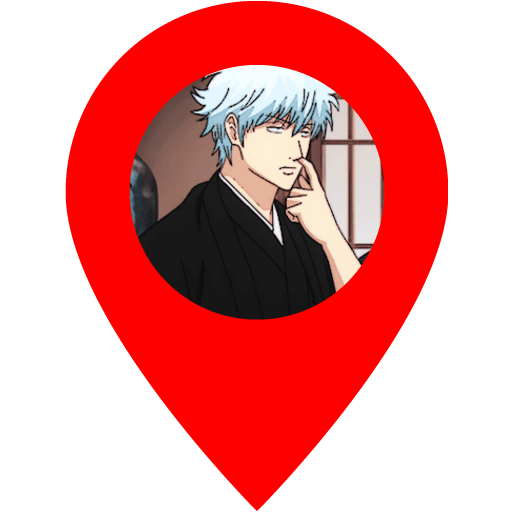
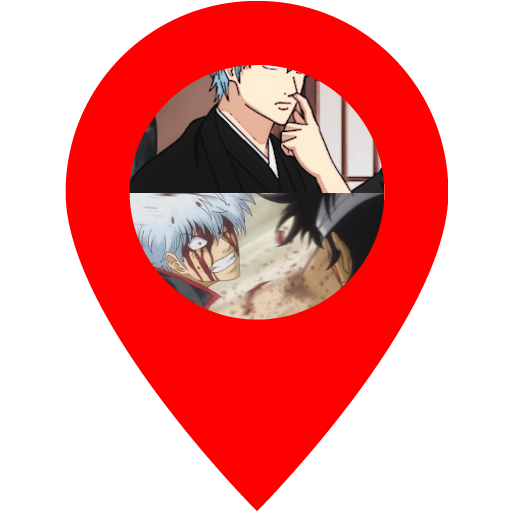
carregamento do conteudo de cada camada é feito em paralelo agora; modificando exemplo para um de 3 camadas

Changed region(s): [[0.25, 0.125, 0.75, 0.625]]

diff --git a/src/main/java/io/github/kieckegard/samples/marker/service/Demonstration.java b/src/main/java/io/github/kieckegard/samples/marker/service/Demonstration.java
@@ -43,7 +43,74 @@ public class Demonstration {
 
     public static void main(String[] args) throws IOException {
 
-        final String json = "{ \"contentName\": \"marker.png\", \"layers\": [ { \"content\": \"https://www.iconsdb.com/icons/download/red/map-marker-2-512.png\" }, { \"behind\": true, \"content\": \"https://66.media.tumblr.com/6b10d3c75c34af5d8ea5bb29623430c6/tumblr_ouk6jozjaH1tiivhqo1_250.gif\", \"filters\": [ { \"type\": \"resize\", \"resizeMode\": \"cover\", \"cover\": { \"boundingBox\": { \"width\": 263, \"height\": 263 } } }, { \"type\": \"crop\", \"cropMode\": \"centered\", \"crop\": { \"toBeCropped\": { \"width\": 263, \"height\": 263 } } } ], \"position\": { \"distanceToTheTop\": 61, \"distanceToTheLeft\": 129 } } ] }";
+        final String json = "{\n" +
+"  \"contentName\": \"marker.png\",\n" +
+"  \"layers\": [\n" +
+"    {\n" +
+"      \"content\": \"https://www.iconsdb.com/icons/download/red/map-marker-2-512.png\"\n" +
+"    },\n" +
+"    {\n" +
+"      \"behind\": true,\n" +
+"      \"content\": \"https://66.media.tumblr.com/6b10d3c75c34af5d8ea5bb29623430c6/tumblr_ouk6jozjaH1tiivhqo1_250.gif\",\n" +
+"      \"filters\": [\n" +
+"        {\n" +
+"          \"type\": \"resize\",\n" +
+"          \"resizeMode\": \"cover\",\n" +
+"          \"cover\": {\n" +
+"            \"boundingBox\": {\n" +
+"              \"width\": 255,\n" +
+"              \"height\": 132\n" +
+"            }\n" +
+"          }\n" +
+"        },\n" +
+"        {\n" +
+"          \"type\": \"crop\",\n" +
+"          \"cropMode\": \"centered\",\n" +
+"          \"crop\": {\n" +
+"            \"toBeCropped\": {\n" +
+"              \"width\": 255,\n" +
+"              \"height\": 132\n" +
+"            }\n" +
+"          }\n" +
+"        }\n" +
+"      ],\n" +
+"      \"position\": {\n" +
+"        \"distanceToTheTop\": 61,\n" +
+"        \"distanceToTheLeft\": 129\n" +
+"      }\n" +
+"    },\n" +
+"    {\n" +
+"      \"behind\": true,\n" +
+"      \"content\": \"https://i.ytimg.com/vi/bG_p3wMWddI/maxresdefault.jpg\",\n" +
+"      \"filters\": [\n" +
+"        {\n" +
+"          \"type\": \"resize\",\n" +
+"          \"resizeMode\": \"cover\",\n" +
+"          \"cover\": {\n" +
+"            \"boundingBox\": {\n" +
+"              \"width\": 255,\n" +
+"              \"height\": 132\n" +
+"            }\n" +
+"          }\n" +
+"        },\n" +
+"        {\n" +
+"          \"type\": \"crop\",\n" +
+"          \"cropMode\": \"centered\",\n" +
+"          \"crop\": {\n" +
+"            \"toBeCropped\": {\n" +
+"              \"width\": 255,\n" +
+"              \"height\": 132\n" +
+"            }\n" +
+"          }\n" +
+"        }\n" +
+"      ],\n" +
+"      \"position\": {\n" +
+"        \"distanceToTheTop\": 193,\n" +
+"        \"distanceToTheLeft\": 129\n" +
+"      }\n" +
+"    }\n" +
+"  ]\n" +
+"}";
 
         JsonDeserializer deserializer = new JsonDeserializer();
 
@@ -56,8 +123,8 @@ public class Demonstration {
         List<Layer> layers = request.getLayers();
         
         FilterService filterService = new FilterService(filterChain);
-
-        LayerService layerService = new LayerService(filterService);
+        LayerLoader layerLoader = new LayerLoader();
+        LayerService layerService = new LayerService(filterService, layerLoader);
         
         try {
             Response response = layerService.handle(request).get();

diff --git a/src/main/java/io/github/kieckegard/samples/marker/service/LayerService.java b/src/main/java/io/github/kieckegard/samples/marker/service/LayerService.java
@@ -26,34 +26,11 @@ import javax.imageio.ImageIO;
 public class LayerService {
 
     private final FilterService filterService;
+    private final LayerLoader layerLoader;
 
-    public LayerService(FilterService filterService) {
+    public LayerService(FilterService filterService, LayerLoader layerLoader) {
         this.filterService = filterService;
-    }
-
-    private BufferedImage load(final String url) throws IOException {
-        URL urlInstance = new URL(url);
-        BufferedImage loadedContent = ImageIO.read(urlInstance);
-        return loadedContent;
-    }
-
-    /**
-     * Carrega o conteudo de uma camada.
-     * @param layer
-     * @return 
-     */
-    private ProcessedLayer load(final Layer layer) {
-
-        try {
-            String contentUrl = layer.getContent();
-            BufferedImage content = this.load(contentUrl);
-            return ProcessedLayer.builder()
-                    .layer(layer)
-                    .loadedImage(content)
-                    .build();
-        } catch (IOException ex) {
-            throw new LayerLoadingException(layer.getContent(), ex);
-        }
+        this.layerLoader = layerLoader;
     }
 
     public Container createContainer(BufferedImage img) {
@@ -136,8 +113,8 @@ public class LayerService {
             throw new EmptyLayersException("Voce precisa passar pelo menos uma layer.");
         }
         
-        List<ProcessedLayer> processedLayers = layers.stream()
-                .map(this::load)
+        List<ProcessedLayer> processedLayers = layers.parallelStream()
+                .map(this.layerLoader)
                 .collect(Collectors.toList());
 
         final ProcessedLayer processedLayer = processedLayers.get(0);

diff --git a/src/main/java/io/github/kieckegard/samples/marker/service/LayerLoader.java b/src/main/java/io/github/kieckegard/samples/marker/service/LayerLoader.java
@@ -1,0 +1,50 @@
+/*
+ * To change this license header, choose License Headers in Project Properties.
+ * To change this template file, choose Tools | Templates
+ * and open the template in the editor.
+ */
+package io.github.kieckegard.samples.marker.service;
+
+import java.awt.image.BufferedImage;
+import java.io.IOException;
+import java.net.URL;
+import java.util.function.Function;
+import javax.imageio.ImageIO;
+
+/**
+ *
+ * @author Pedro Arthur <pfernandesvasconcelos@gmail.com>
+ */
+public class LayerLoader implements Function<Layer, ProcessedLayer> {
+    
+    private BufferedImage load(final String url) throws IOException {
+        URL urlInstance = new URL(url);
+        BufferedImage loadedContent = ImageIO.read(urlInstance);
+        return loadedContent;
+    }
+
+    /**
+     * Carrega o conteudo de uma camada.
+     * @param layer
+     * @return 
+     */
+    private ProcessedLayer load(final Layer layer) {
+
+        try {
+            String contentUrl = layer.getContent();
+            BufferedImage content = this.load(contentUrl);
+            return ProcessedLayer.builder()
+                    .layer(layer)
+                    .loadedImage(content)
+                    .build();
+        } catch (IOException ex) {
+            throw new LayerLoadingException(layer.getContent(), ex);
+        }
+    }
+
+    @Override
+    public ProcessedLayer apply(Layer layer) {
+        return this.load(layer);
+    }
+    
+}
